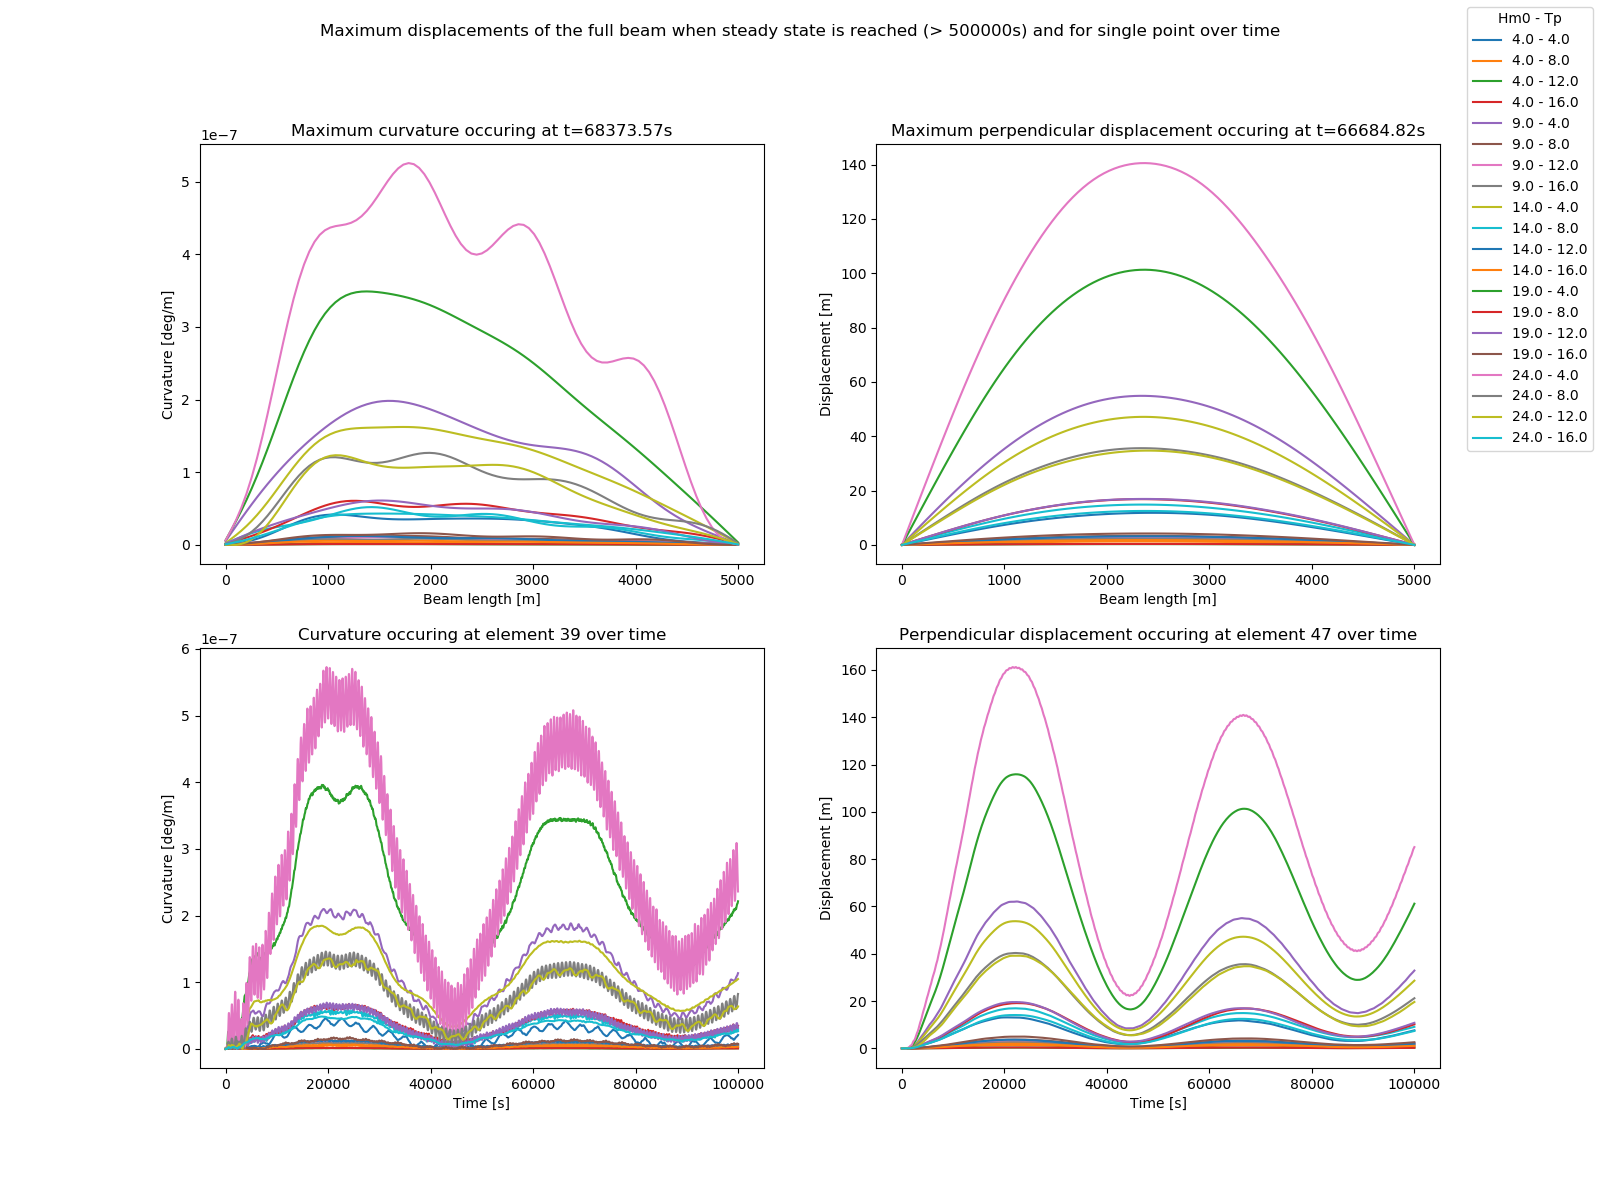
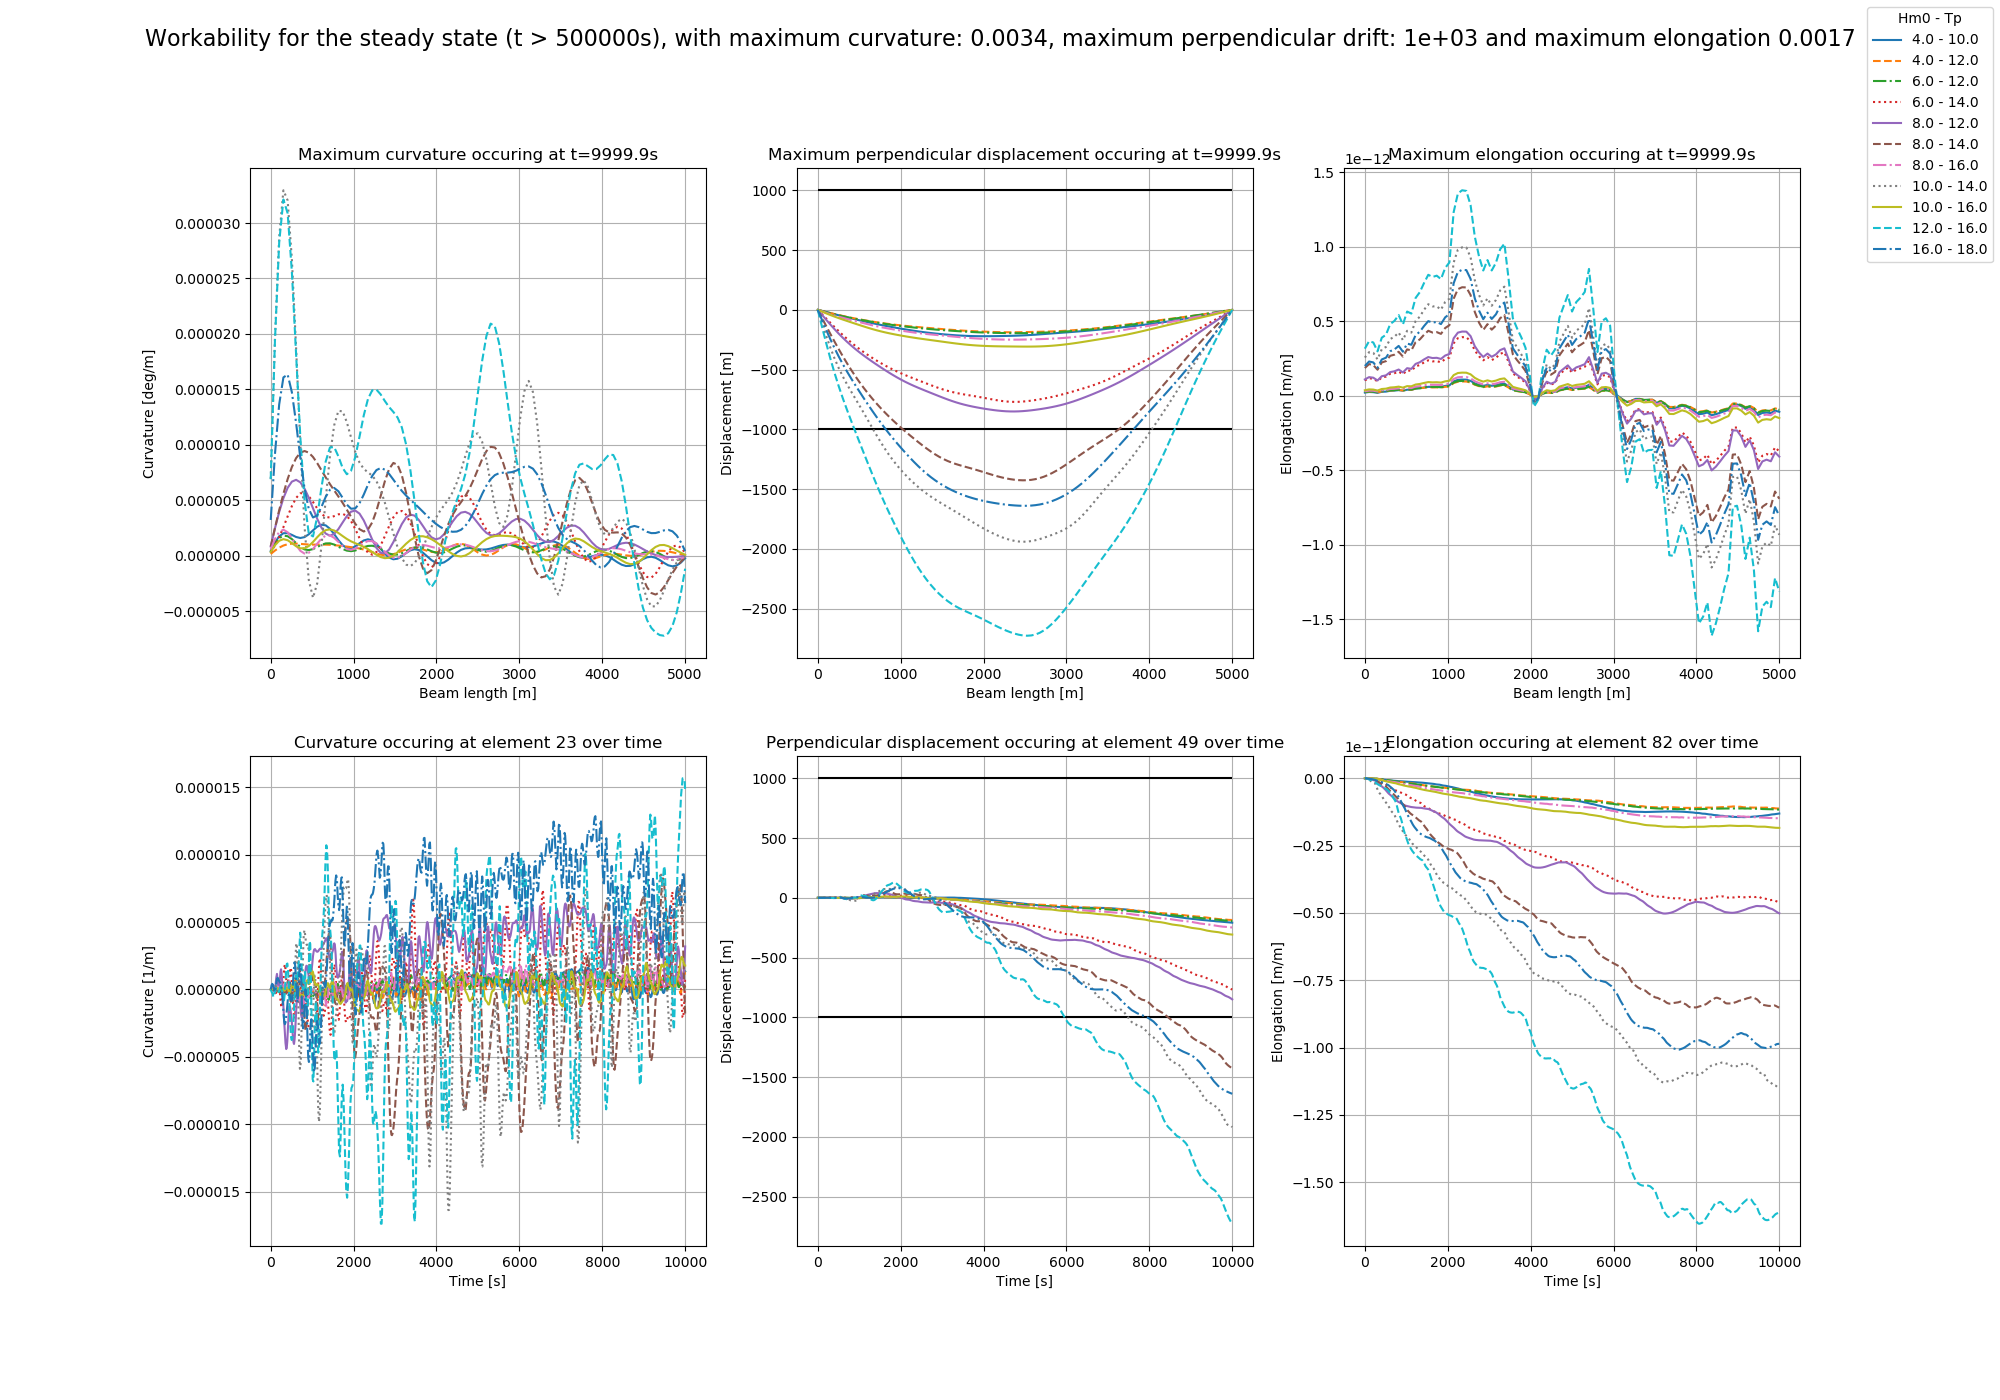
added workability plots

diff --git a/part_3/FEM.py b/part_3/FEM.py
@@ -11,6 +11,7 @@ import numpy as np
 import matplotlib.pyplot as plt
 import scipy
 import scipy.integrate
+import datetime
 from matplotlib.animation import FuncAnimation
 from BeamMatrices import BeamMatricesJacket
 from analytical import *
@@ -27,7 +28,7 @@ class ContinousBeam(object):
 
         # Input parameters
         self.R = 0.5                       # [m] radius of pipe
-        self.thickness = 0.010              # [m] wall thickness
+        self.thickness = 0.020              # [m] wall thickness
         
         # cross-sectional properites
         self.A = 2*np.pi*self.R*self.thickness
@@ -46,7 +47,7 @@ class ContinousBeam(object):
         # Define load parameters
         self.f0 = 2                          # [Hz]
         self.A0 = 0.1                        # [m]
-        self.T0 = 100000                         # [s]
+        self.T0 = 10000
         
         # irregular forcing parameters
         self.apply_irregular_forcing = True
@@ -54,15 +55,21 @@ class ContinousBeam(object):
         self.Tp = 20 #s
         self.CD = 0.7 #-
         self.ship_mass = 60e6 #kg
-        self.ship_area = 12000  #m2
+        self.ship_area = 6000  #m2
         self.rho_water = 1000 #kg/m3
+        #self.Hm0_range = [4, 8, 10, 12]
+        #self.Tp_range = [6, 8, 10, 12]
+        # (Hm0, Tp) pairs
+        #self.wave_characteristics = [(4, 6), (4, 8), (4, 10), (6, 6), (6, 8), (6, 10), (8, 6), (8, 8), (8, 10), (10, 8), (10, 10), (10, 12)
+        self.wave_characteristics = [(4,10), (4,12), (6, 12), (6, 14), (8, 12), (8, 14), (8, 16), (10, 14), (10, 16), (12, 16), (16, 18)]
+        self.K_ship = 10e8
 
         # Define output time vector
-        self.dt = 1                       # [s]
+        self.dt = 0.1                       # [s]
 
         # Define node coordinates
         self.N_nodes = 100
-        self.n_modes = 10
+        self.n_modes = 20
 
 
         # Modal analysis
@@ -76,12 +83,22 @@ class ContinousBeam(object):
         ### SETUP SECONDARY PARAMETERS AND MATRICES
         # Setup time parameters
         self.T = np.arange(0, self.T0, self.dt)
+        self.forcing_t = np.arange(0, self.T0+self.Tp/4, self.dt)
         self.nT = len(self.T)
 
         # Irregular forcing function
         self.omega_waves = np.pi*2/self.Tp
-        self.amplitude_time_series = get_irregular_forcing(self.Hm0, self.Tp, self.T)[0]
-        self.irregular_forcing = 1/2*self.rho_water*(self.omega_waves*self.amplitude_time_series)**2*self.CD*self.ship_area
+        # make sure velocity and amplitude are 90deg out of phase
+        phase_mask = self.forcing_t >= self.Tp/4
+        self.amplitude_time_series = get_irregular_forcing(self.Hm0, self.Tp, self.forcing_t)[0][phase_mask]
+        self.flow_velocity_time_series = 1/2*self.rho_water*(self.omega_waves*self.amplitude_time_series)**2*self.CD*self.ship_area
+        self.irregular_forcing = [self.amplitude_time_series, self.flow_velocity_time_series]
+
+        # Workability limits
+        # steel yield strenght = 355
+        self.max_curvature = 355*10**6 / (self.E * self.R)
+        self.max_drift = 1000.0 
+        self.max_elongation = 355*10**6 / self.E
 
 
         # setup node coordinates 
@@ -332,13 +349,13 @@ class ContinousBeam(object):
         self.Cm = np.zeros(available_modes)
 
         # Compute your "self.n_modes" entries of the modal mass, stiffness and damping
-        print("System Characteristics :")
+        #print("System Characteristics :")
         for i in range(available_modes):
             self.Mm[i] = self.PHI[:, i].T  @ self.M_FF @ self.PHI[:, i]
             self.Km[i] = self.PHI[:, i].T  @ self.K_FF @ self.PHI[:, i]
             self.Cm[i] = 2*self.modal_damping_ratio*np.sqrt(self.Mm[i]*self.Km[i])
-            print(f"Mode: {i+1}: \t\t Mm = {self.Mm[i]:.3f}, Km = {self.Km[i]:.3f}, Cm = {self.Cm[i]:.3f}")
-        print("---------------------------\n")
+            #print(f"Mode: {i+1}: \t\t Mm = {self.Mm[i]:.3f}, Km = {self.Km[i]:.3f}, Cm = {self.Cm[i]:.3f}")
+        #print("---------------------------\n")
 
     def get_forcing(self, t):
         if not self.apply_irregular_forcing:
@@ -352,7 +369,8 @@ class ContinousBeam(object):
             # prescribe acceleration by dividing force over ship mass
             A = np.zeros(len(self.prescribed_dofs))
             force_index = np.argwhere(self.T >= t)[0][0]
-            A[2] = self.irregular_forcing[force_index] * 1000
+            A[0] = self.irregular_forcing[0][force_index] * self.K_ship
+            A[1] = self.irregular_forcing[1][force_index] / self.ship_mass
             F =  - self.M_FP.T @ A 
             return self.PHI.T @ F
 
@@ -367,7 +385,7 @@ class ContinousBeam(object):
 
     # solving in time domain
     def get_solution_FEM(self):
-        
+        starttime = datetime.datetime.now()
         self.solution = scipy.integrate.solve_ivp(fun=self.qdot,y0=self.q0,t_span=[self.T[0],self.T[-1]])
 
         self.computed_time = self.solution.t
@@ -383,38 +401,47 @@ class ContinousBeam(object):
         self.x_displacements = self.displacements[0::3]
         self.y_displacements = self.displacements[1::3]
         self.theta_displacements = self.displacements[2::3]
-        self.curvature_displacements = np.abs(np.diff(self.theta_displacements, axis=0))*np.pi/180/(2*self.dx)
+        self.curvature_displacements = np.diff(self.theta_displacements, axis=0)*np.pi/180/(2*self.dx)
+        self.elongation = np.diff(self.x_displacements, axis=0)
+        self.normal_stress = self.elongation*self.E
+        self.bending_stress = self.curvature_displacements*self.E*self.R
+        self.total_stress = self.bending_stress + self.normal_stress
         
         # velocity solution from modal to spatial domain
         self.velocities = np.array([self.PHI @ self.solution.y[self.n_modes:, t] for t in range(len(self.computed_time))]).T
         self.x_velocities = self.velocities[0::3]
         self.y_velocities = self.velocities[1::3]
         self.theta_velocities = self.velocities[2::3]
-    
+        
+        duration = datetime.datetime.now() - starttime
         print()
-        print('Solving done')
+        print(f'Solving done, took me: {duration} seconds')
         
     def plot_maximum_beam_displacement(self, fig=None, ax=None, ls="-"):
         save = False
         if not fig:
             save = True
-            fig, ax = plt.subplots(2,2, figsize=(16, 12))
+            fig, ax = plt.subplots(2,3, figsize=(20, 12))
         
         ## Assume steady state is beyond half of the computation time
         mask = self.computed_time > self.T[-1]/2
         extra_index = len(mask) - np.count_nonzero(mask)
 
-        curvature_timestep = max(self.curvature_displacements[:,mask].argmax(axis=1)) + extra_index
-        y_timestep = max(self.y_displacements[:,mask].argmax(axis=1)) + extra_index
+        curvature_timestep = max(np.abs(self.curvature_displacements[:,mask]).argmax(axis=1)) + extra_index
+        y_timestep = max(np.abs(self.y_displacements[:,mask]).argmax(axis=1)) + extra_index
+        elongation_timestep = max(np.abs(self.elongation[:,mask]).argmax(axis=1)) + extra_index
 
-        curvature_node = max(self.curvature_displacements[:,mask].argmax(axis=0))
-        y_node = max(self.y_displacements[:,mask].argmax(axis=0))
+        curvature_node = max(np.abs(self.curvature_displacements[:,mask]).argmax(axis=0))
+        y_node = max(np.abs(self.y_displacements[:,mask]).argmax(axis=0))
+        elongation_node = max(np.abs(self.elongation[:,mask]).argmax(axis=0))
 
         curvature1 = self.curvature_displacements[:, curvature_timestep]
         y1 = self.y_displacements[:, y_timestep]
+        elongation1 = self.elongation[:, elongation_timestep]
 
         curvature2 = self.curvature_displacements[curvature_node, :]
         y2 = self.y_displacements[y_node, :]
+        elongation2 = self.elongation[elongation_node, :]
 
         a = ax[0,0]
         a.plot(np.linspace(self.top_cable, self.base_cable, self.N_nodes-1), curvature1, label=f"{self.Hm0} - {self.Tp}", ls=ls)
@@ -431,11 +458,18 @@ class ContinousBeam(object):
         a.set_ylabel('Displacement [m]')
         a.grid()
 
+        a = ax[0,2]
+        a.plot(np.linspace(self.top_cable, self.base_cable, self.N_nodes-1), elongation1, ls=ls)
+        a.set_title(f"Maximum elongation occuring at t={np.round(self.computed_time[elongation_timestep],2)}s")
+        a.set_xlabel('Beam length [m]')
+        a.set_ylabel('Elongation [m/m]')
+        a.grid()
+
         a = ax[1,0]
         a.plot(self.computed_time, curvature2, ls=ls)
         a.set_title(f"Curvature occuring at element {curvature_node} over time")
         a.set_xlabel('Time [s]')
-        a.set_ylabel('Curvature [deg/m]')
+        a.set_ylabel('Curvature [1/m]')
         a.grid()
 
         a = ax[1,1]
@@ -444,37 +478,56 @@ class ContinousBeam(object):
         a.set_xlabel('Time [s]')
         a.set_ylabel('Displacement [m]')
         a.grid()
+
+        a = ax[1,2]
+        a.plot(self.computed_time, elongation2, ls=ls)
+        a.set_title(f"Elongation occuring at element {elongation_node} over time")
+        a.set_xlabel('Time [s]')
+        a.set_ylabel('Elongation [m/m]')
+        a.grid()
        
         if save:
-            fig.suptitle(f"Maximum displacements and curvature for steady state (t > 500000s) and for single point over time")
+            fig.suptitle(f"Workability for the steady state (t > 500000s), with maximum curvature: {self.max_curvature:.2f}, maximum perpendicular drift: {self.max_drift:.2f} and maximum elongation {self.max_elongation:.2f}")
             fig.legend(handles, labels, title="Hm0 - Tp")
             plt.savefig("system_response_irregular_forcing.png")
             plt.cla()
         return handles, labels
 
-    def get_system_response_irregular_forcing(self, Hm0_range, Tp_range):
-        fig, ax = plt.subplots(2,2, figsize=(16, 12))
+    def get_system_response_irregular_forcing(self, wave_characteristics=None):
+        if not wave_characteristics:
+            wave_characteristics = self.wave_characteristics
+
+        fig, ax = plt.subplots(2,3, figsize=(20, 14))
+        #ax[0,0].hlines([self.max_curvature, -self.max_curvature], self.base_cable, self.top_cable)
+        #ax[1,0].hlines([self.max_curvature, -self.max_curvature], self.T[0], self.T[-1])
+        ax[0,1].hlines([self.max_drift, -self.max_drift], self.base_cable, self.top_cable)
+        ax[1,1].hlines([self.max_drift, -self.max_drift], self.T[0], self.T[-1])
+        #ax[0,2].hlines([self.max_elongation, -self.max_elongation], self.base_cable, self.top_cable)
+        #ax[1,2].hlines([self.max_elongation, -self.max_elongation], self.T[0], self.T[-1])
+
         all_handles = []
         all_labels = []
         line_styles = ["-", "--", "-.", ":"]
-        for Hm0 in Hm0_range:
-            for i,Tp in enumerate(Tp_range):
-                ls = line_styles[i]
-                print("=================")
-                print("Running simulation for Hm0: ", Hm0, " Tp: ", Tp)
-                print("=================")
-                self.Hm0 = float(Hm0)
-                self.Tp = float(Tp)
-                self.setup_system()
-                self.get_solution_FEM()
-                handles, labels = self.plot_maximum_beam_displacement(fig, ax, ls)
-                all_handles.extend(handles)
-                all_labels.extend(labels)
+        for i, (Hm0, Tp) in enumerate(wave_characteristics):
+            ls = line_styles[i % 4]
+            print("=================")
+            print("Running simulation for Hm0: ", Hm0, " Tp: ", Tp)
+            self.Hm0 = float(Hm0)
+            self.Tp = float(Tp)
+            self.setup_system()
+            self.get_solution_FEM()
+            handles, labels = self.plot_maximum_beam_displacement(fig, ax, ls)
+            all_handles.extend(handles)
+            all_labels.extend(labels)
+            print("=================")
 
-        fig.suptitle(f"Maximum displacements of the full beam when steady state is reached (> 500000s) and for single point over time")
+        fig.suptitle(f"Workability for the steady state (t > 500000s), with maximum curvature: {self.max_curvature:.2}, maximum perpendicular drift: {self.max_drift:.2} and maximum elongation {self.max_elongation:.2}", fontsize=16)
         fig.legend(handles, labels, title="Hm0 - Tp")
+        #plt.tight_layout()
         plt.savefig("system_response_irregular_forcing.png")
-        plt.cla()
+
+
+        return fig, ax
 
     
     def get_frequency_convergence(self, dx_range_start, dx_range_stop):
